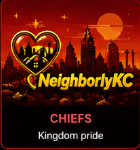
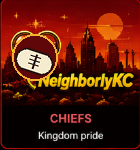
Add files via upload

Changed region(s): [[0.0857, 0.2133, 0.4286, 0.56]]

diff --git a/app/page.tsx b/app/page.tsx
@@ -243,22 +243,23 @@ export default function Page(){
     const migrated = saved === 'kc-sunset' ? 'kc-current' : saved;
     setThemeId(migrated && THEMES[migrated] ? migrated : DEFAULT_THEME_ID);
     if(new URLSearchParams(window.location.search).get('signin')==='1') setShowJoin(true);
+
     let alive = true;
     let subscription: { unsubscribe: () => void } | null = null;
-    let sawAuthEvent = false;
 
     const applySession = (user:any) => {
-      setGoogleLoading(false);
       if(!user || !alive) return;
-      // Show the signed-in UI immediately, then hydrate the full profile in the
-      // next task. This prevents the OAuth callback from briefly looking logged out.
+      setGoogleLoading(false);
       setShowJoin(false);
-      setProfile((current:any)=>current || {
+      // Update the UI from the real Supabase session immediately. Never use a
+      // cached profile as proof of authentication.
+      const quickProfile = {
         user_id:user.id,
         auth_user_id:user.id,
         full_name:user.user_metadata?.full_name || user.user_metadata?.name || user.email?.split('@')[0] || 'Neighbor',
         email:user.email || ''
-      });
+      };
+      setProfile((current:any)=>current?.user_id===user.id ? current : quickProfile);
       window.setTimeout(() => {
         void syncCommunityProfile(user).then(pr=>{
           if(alive && pr){
@@ -269,11 +270,10 @@ export default function Page(){
       }, 0);
     };
 
-    // Register the auth listener before restoring/exchanging a session so the
-    // UI reacts immediately when Supabase establishes the authenticated user.
+    // Listen first so a session created during an OAuth/code exchange can never
+    // be missed by the UI.
     const { data } = supabase.auth.onAuthStateChange((event, sess)=>{
       if(!alive) return;
-      sawAuthEvent = true;
       if(sess?.user){
         applySession(sess.user);
         setAuthReady(true);
@@ -285,25 +285,29 @@ export default function Page(){
       }
     });
     subscription = data.subscription;
-    // Auth controls should never be held hostage by feed/profile network requests.
-    // Resolve the header state immediately; the async session hydration below can
-    // then upgrade the UI to the signed-in state when Supabase is ready.
-    setAuthReady(true);
 
     (async()=>{
-      // Supabase handles the PKCE callback automatically because the client
-      // uses detectSessionInUrl:true. Restore any existing session here.
-      const { data: { session }, error } = await supabase.auth.getSession();
-      if(!alive) return;
-      if(error) console.warn('Auth session restore warning:', error.message);
-      if(session?.user){
-        applySession(session.user);
-      } else if(!sawAuthEvent) {
-        // Do not erase a freshly established session if the auth event won the
-        // race with getSession() on Safari/Vercel. This was the source of the
-        // first-login-looks-logged-out / sign-in-twice behavior.
-        localStorage.removeItem('nkc_profile');
-        setProfile(null);
+      try {
+        // Explicitly exchange the OAuth PKCE code on the callback page. This
+        // removes the intermittent first-login/second-login behavior seen on
+        // mobile browsers and Vercel test deployments.
+        const params = new URLSearchParams(window.location.search);
+        const code = params.get('code');
+        if(code){
+          const { error } = await supabase.auth.exchangeCodeForSession(code);
+          if(error) {
+            console.warn('OAuth code exchange warning:', error.message);
+            setEmailAuthMessage(error.message);
+          }
+          window.history.replaceState({}, '', window.location.pathname);
+        }
+
+        const { data: { session }, error } = await supabase.auth.getSession();
+        if(!alive) return;
+        if(error) console.warn('Auth session restore warning:', error.message);
+        if(session?.user) applySession(session.user);
+      } finally {
+        if(alive) setAuthReady(true);
       }
     })();
 

diff --git a/app/globals.css b/app/globals.css
@@ -241,10 +241,10 @@ body { overscroll-behavior-y: none; }
   cursor:pointer;
   -webkit-tap-highlight-color:transparent;
 }
-.nkc-theme-choice img{display:block;width:100%;aspect-ratio:1.05/1;object-fit:fill;object-position:center}
+.nkc-theme-choice img{display:block;width:100%;height:100%;aspect-ratio:173/191;object-fit:fill;object-position:center}
 .nkc-theme-choice:hover{transform:translateY(-1px)}
 .nkc-theme-choice-check{position:absolute;right:7px;top:7px;width:26px;height:26px;border-radius:9999px;display:grid;place-items:center;font-weight:950;font-size:15px;line-height:1;box-shadow:0 4px 12px rgba(0,0,0,.3)}
-.nkc-theme-choice-fallback{aspect-ratio:1.05/1;display:grid;place-items:center;color:#fff;font-size:13px;padding:8px;line-height:1.1}
+.nkc-theme-choice-fallback{width:100%;height:100%;aspect-ratio:173/191;display:grid;place-items:center;color:#fff;font-size:13px;padding:8px;line-height:1.1}
 
 /* Compact theme-matched weather strip below the header artwork. */
 .nkc-weather-ticker{position:relative;overflow:hidden;width:100%;border-top:1px solid;border-bottom:1px solid;white-space:nowrap;font-size:11px;font-weight:800;line-height:1;padding:7px 0}
@@ -259,7 +259,7 @@ body { overscroll-behavior-y: none; }
 
 @media (max-width:639px){
   .nkc-theme-choice{border-radius:13px}
-  .nkc-theme-choice img{aspect-ratio:1.05/1}
+  .nkc-theme-choice img{aspect-ratio:173/191}
   .nkc-weather-ticker{font-size:10px;padding:6px 0}
   .nkc-weather-track{gap:20px;animation-duration:20s}
 }

diff --git a/THEME_AUTH_UPDATE.md b/THEME_AUTH_UPDATE.md
@@ -1,0 +1,9 @@
+# Theme button + sign-in update
+
+- Theme picker cards now use a consistent 173:191 card ratio, matching the supplied Space theme-card artwork.
+- Replaced the Space theme button artwork with the exact supplied Space card.
+- Google OAuth callback now explicitly exchanges the PKCE `code` before restoring the session.
+- Auth UI no longer marks itself ready before session restoration and no longer clears cached profile state during a normal no-session race.
+- The signed-in UI is driven by the real Supabase session, while the community profile is hydrated afterward.
+
+This is intended to remove the intermittent first-login/second-login behavior seen on browser and mobile/Vercel test sessions.
